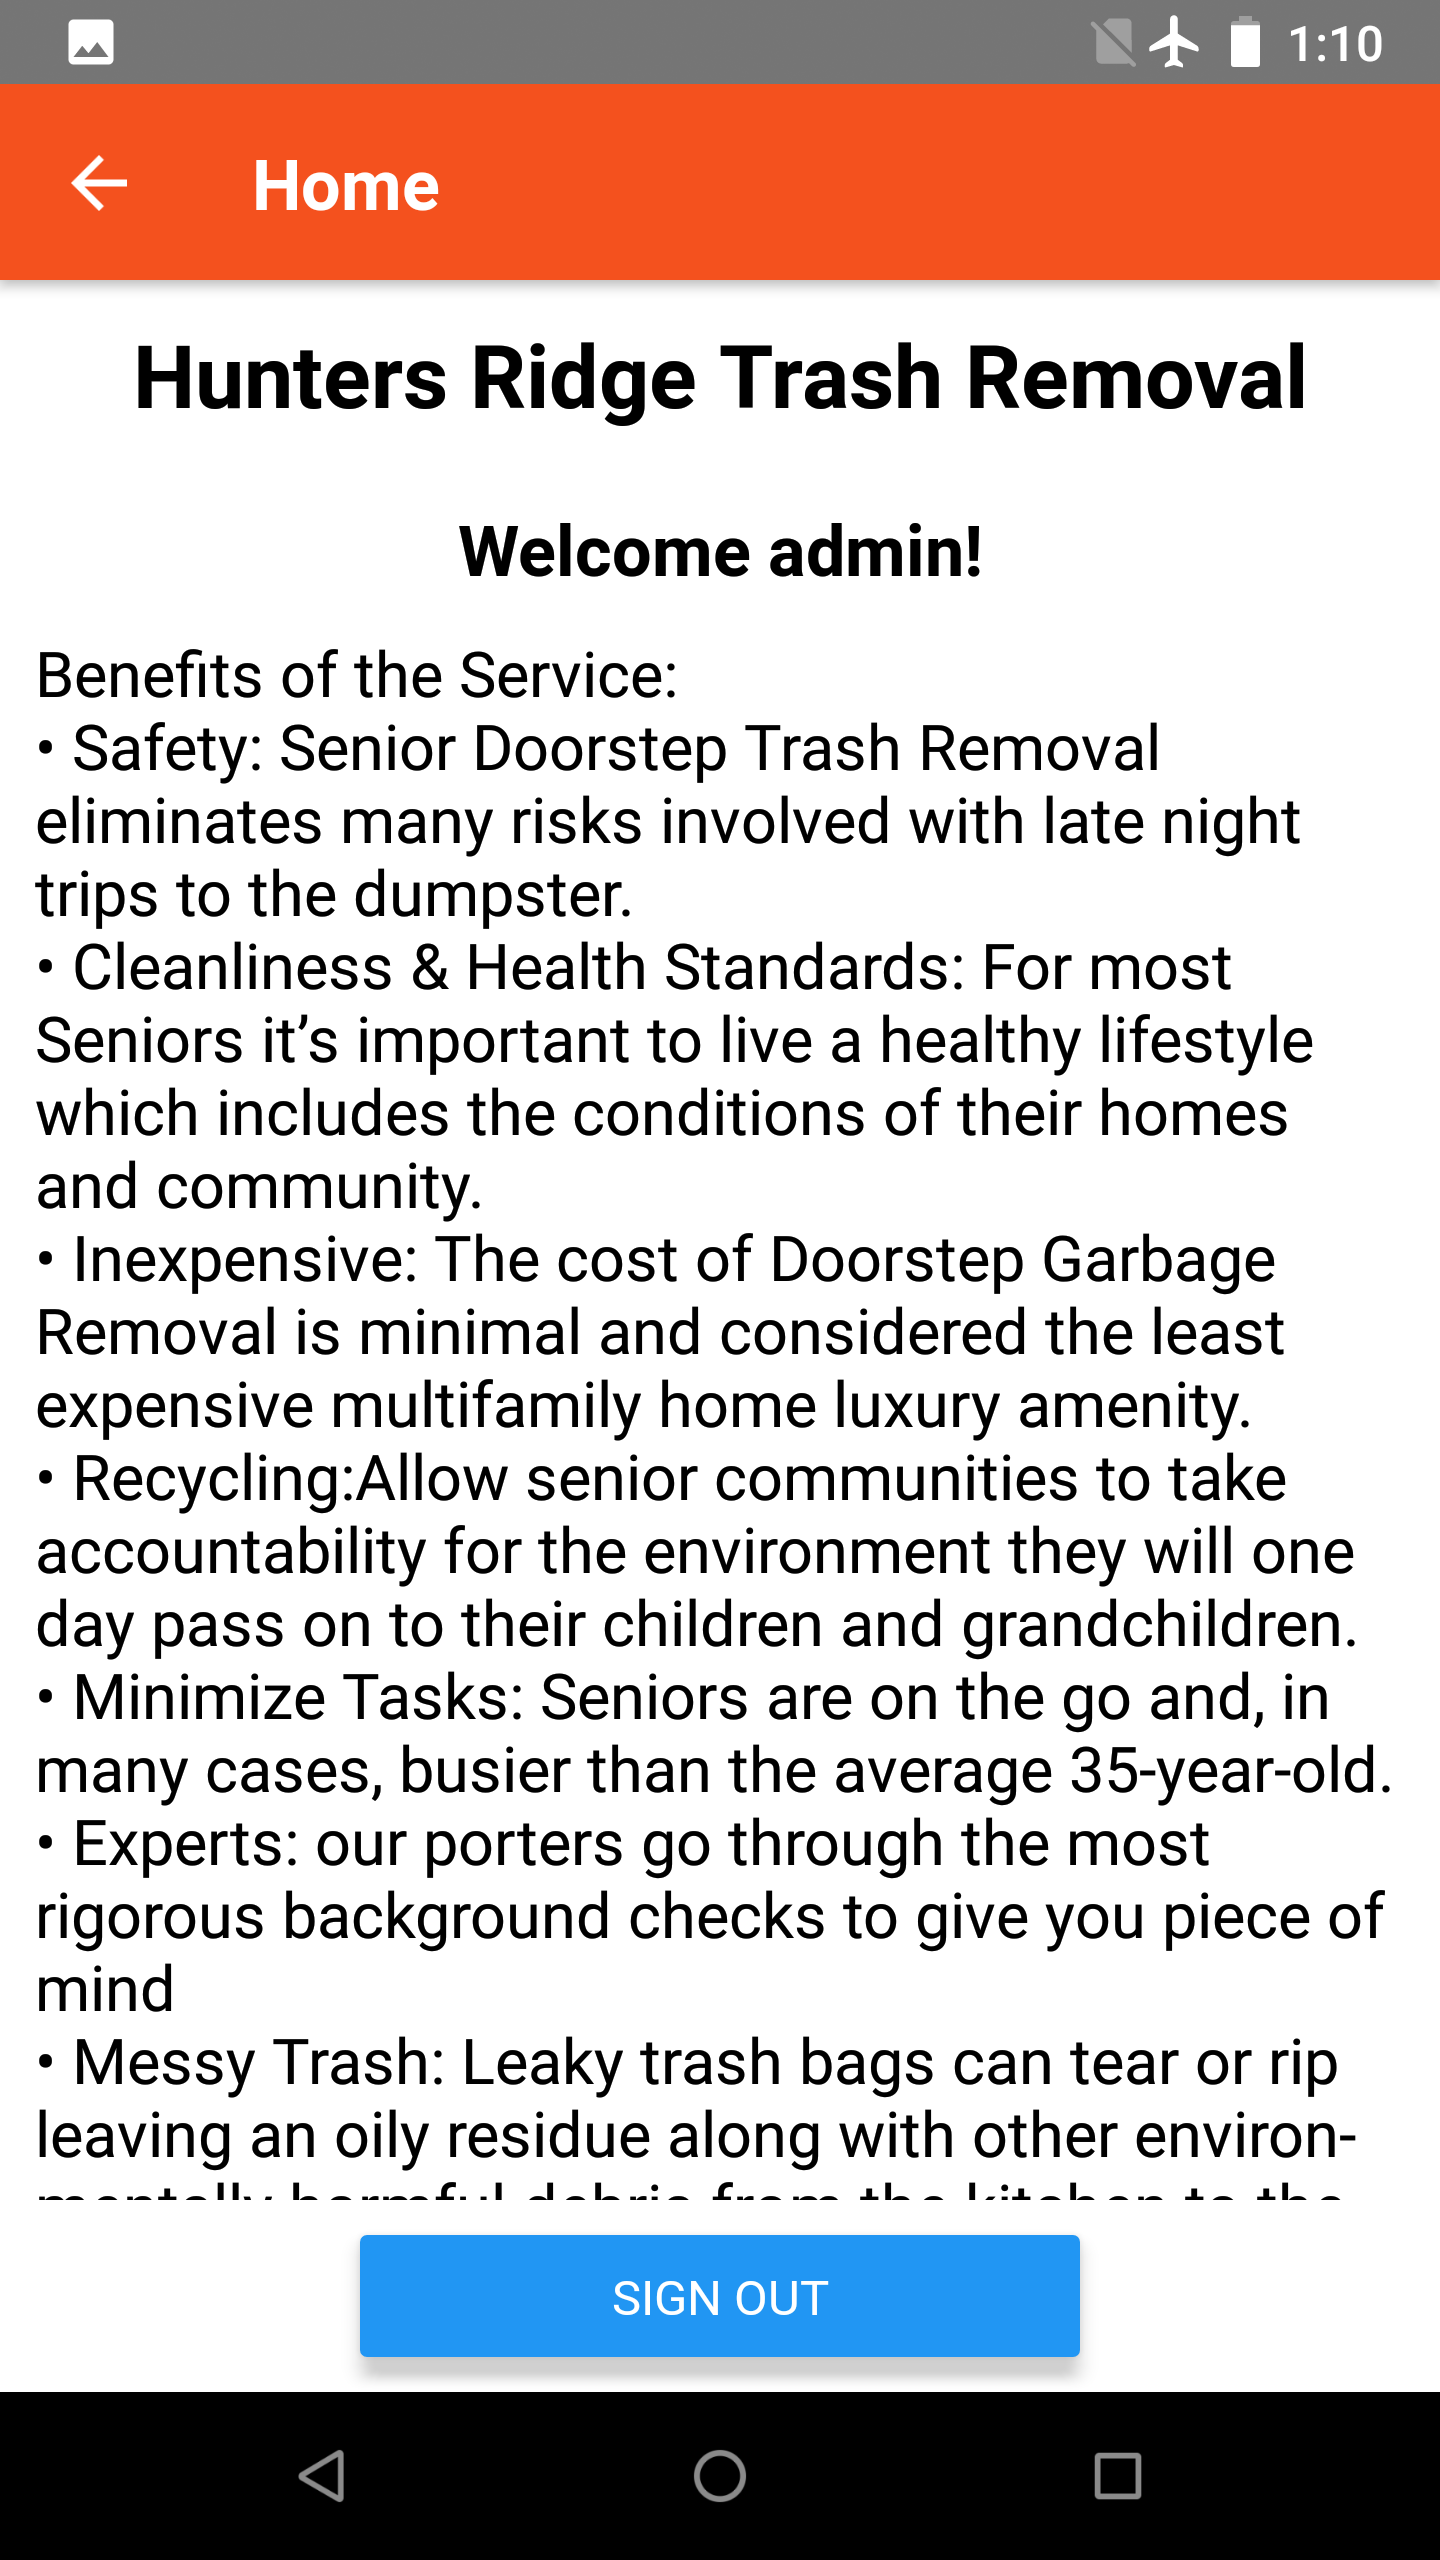
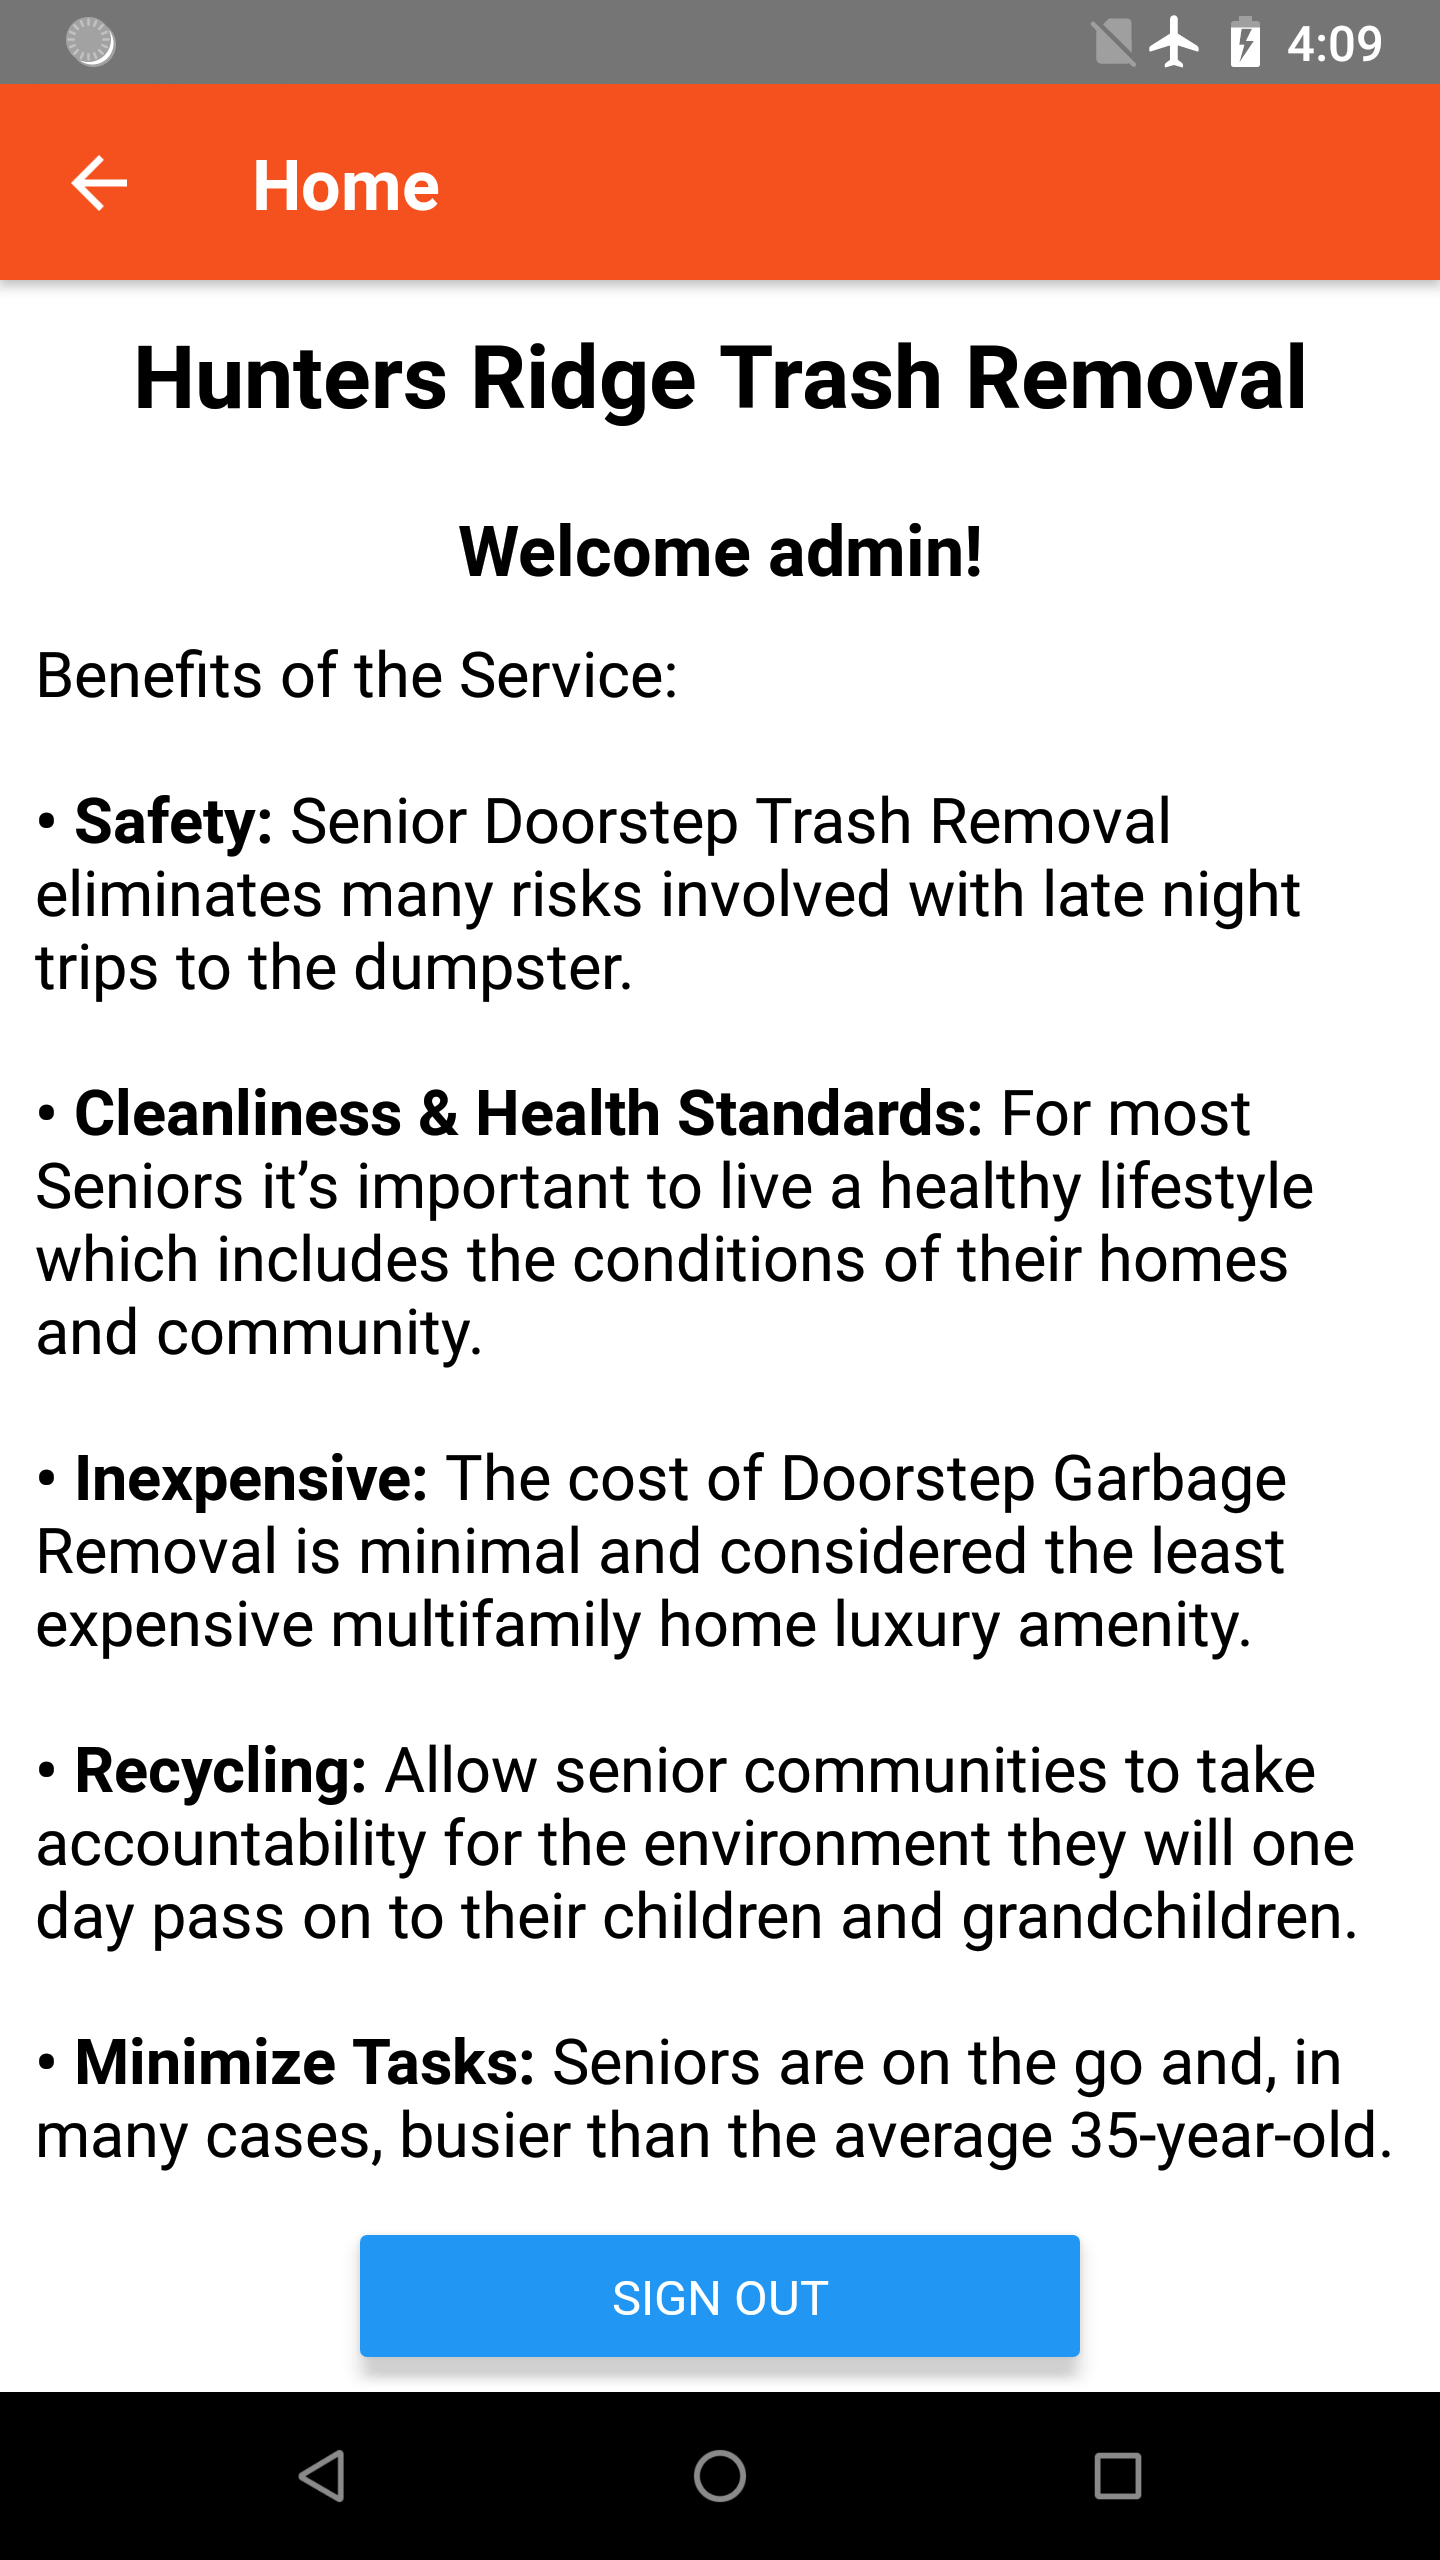
add new field to register form + text formatting in Home screen + new screenshots

Changed region(s): [[0.0312, 0.2812, 0.9688, 0.875], [0.9062, 0.0, 0.9688, 0.0312], [0.0312, 0.0, 0.0938, 0.0312]]

diff --git a/front_end/src/screens/RegistrationScreen.js b/front_end/src/screens/RegistrationScreen.js
@@ -48,12 +48,14 @@ export class RegistrationScreen extends React.Component {
     this.state = {
       email: '',
       password: '',
-      name: '',
+      firstName: '',
+      lastName: '',
       streetAddress: '',
       city: '',
       stateUS: '',
       zipCode: '',
-      phone: '',
+      mobilePhone: '',
+      residentialPhone: '',
       loading: false
     };
   }
@@ -72,17 +74,23 @@ export class RegistrationScreen extends React.Component {
   clearForm = () => {
     this.setState({email: ''});
     this.setState({password: ''});
-    this.setState({name: ''});
+    this.setState({firstName: ''});
+    this.setState({lastName: ''});
     this.setState({streetAddress: ''});
     this.setState({city: ''});
     this.setState({stateUS: ''});
     this.setState({zipCode: ''});
-    this.setState({phone: ''});
+    this.setState({mobilePhone: ''});
+    this.setState({residentialPhone: ''});
     this.setState({loading: false});
   }
 
-  validateName = () => {
-    return (this.state.name !== '');
+  validateFirstName = () => {
+    return (this.state.firstName !== '');
+  }
+
+  validateLastName = () => {
+    return (this.state.lastName !== '');
   }
 
   validateEmail = () => {
@@ -109,14 +117,17 @@ export class RegistrationScreen extends React.Component {
     return (/^\d{5}$/.test(this.state.zipCode));
   }
 
-  validatePhone = () => {
-    return (/^\d{10}$/.test(this.state.phone));
+  validatePhone = (phone) => {
+    return (/^\d{10}$/.test(phone));
   }
 
   registerPressed = () => {
-    if (!this.validateName()) {
-      Alert.alert('Please enter valid Full Name');
-      // this.setState({name: ''});
+    if (!this.validateFirstName()) {
+      Alert.alert('Please enter valid First Name');
+      return;
+    }
+    if (!this.validateLastName()) {
+      Alert.alert('Please enter valid Last Name');
       return;
     }
     if (!this.validateEmail()) {
@@ -150,9 +161,12 @@ export class RegistrationScreen extends React.Component {
       // this.setState({zipCode: ''});
       return;
     }
-    if (!this.validatePhone()) {
-      Alert.alert('Please enter valid Phone Number.', 'Must be 10 digits.');
-      // this.setState({phone: ''});
+    if (!this.validatePhone(this.state.mobilePhone)) {
+      Alert.alert('Please enter valid Mobile Phone Number.', 'Must be 10 digits.');
+      return;
+    }
+    if (!this.validatePhone(this.state.residentialPhone)) {
+      Alert.alert('Please enter valid Residential Phone Number.', 'Must be 10 digits.');
       return;
     }
 
@@ -178,13 +192,24 @@ export class RegistrationScreen extends React.Component {
         <SafeAreaView style={styles.container}>
           <ScrollView style={styles.scrollView} >
             <View style={styles.labelAndTextInputView}>
-              <Text style={styles.label}>Full name: </Text>
+              <Text style={styles.label}>First name: </Text>
               <TextInput
                 style={styles.textInput}
-                placeholder="Full name"
+                placeholder="First name"
                 autoCompleteType="name"
-                onChangeText={(name) => this.setState({name})}
-                value={this.state.name}
+                onChangeText={(firstName) => this.setState({firstName})}
+                value={this.state.firstName}
+              />
+            </View>
+
+            <View style={styles.labelAndTextInputView}>
+              <Text style={styles.label}>Last name: </Text>
+              <TextInput
+                style={styles.textInput}
+                placeholder="Last name"
+                autoCompleteType="name"
+                onChangeText={(lastName) => this.setState({lastName})}
+                value={this.state.lastName}
               />
             </View>
 
@@ -306,14 +331,25 @@ export class RegistrationScreen extends React.Component {
             </View>
 
             <View style={styles.labelAndTextInputView}>
-              <Text style={styles.label}>Phone number: </Text>
+              <Text style={styles.label}>Mobile Phone: </Text>
               <TextInput
                 style={styles.textInput}
                 keyboardType = 'numeric'
-                placeholder="Phone number"
+                placeholder="Mobile Phone"
                 autoCompleteType="tel"
-                onChangeText={(phone) => this.setState({phone})}
-                value={this.state.phone}
+                onChangeText={(mobilePhone) => this.setState({mobilePhone})}
+                value={this.state.mobilePhone}
+              />
+            </View>
+            <View style={styles.labelAndTextInputView}>
+              <Text style={styles.label}>Residential Phone: </Text>
+              <TextInput
+                style={styles.textInput}
+                keyboardType = 'numeric'
+                placeholder="Residential Phone"
+                autoCompleteType="tel"
+                onChangeText={(residentialPhone) => this.setState({residentialPhone})}
+                value={this.state.residentialPhone}
               />
             </View>
           </ScrollView>

diff --git a/front_end/src/screens/HomeScreen.js b/front_end/src/screens/HomeScreen.js
@@ -34,6 +34,8 @@ const styles = StyleSheet.create({
   }
 });
 
+const Bold = (props) => <Text style={{fontWeight: 'bold'}}>{props.children}</Text>
+
 export class HomeScreen extends React.Component {
     static navigationOptions = {
       title: 'Home',
@@ -60,19 +62,19 @@ export class HomeScreen extends React.Component {
             <ScrollView style={styles.scrollView}>
               <Text style={styles.descriptionText}>
                 Benefits of the Service:
-                {"\n"}• Safety: Senior Doorstep Trash Removal eliminates many risks involved with late night trips to the dumpster. 
-                {"\n"}• Cleanliness & Health Standards: For most Seniors it’s important to live a healthy lifestyle which includes the conditions of their homes and community. 
-                {"\n"}• Inexpensive: The cost of Doorstep Garbage Removal is minimal and considered the least expensive multifamily home luxury amenity. 
-                {"\n"}• Recycling:Allow senior communities to take accountability for the environment they will one day pass on to their children and grandchildren. 
-                {"\n"}• Minimize Tasks: Seniors are on the go and, in many cases, busier than the average 35-year-old. 
-                {"\n"}• Experts: our porters go through the most rigorous background checks to give you piece of mind 
-                {"\n"}• Messy Trash: Leaky trash bags can tear or rip leaving an oily residue along with other environmentally harmful debris from the kitchen to the dumpster. Waste Away Doorstep is the answer. 
-                {"\n"}• Trash Pile Up: Don’t let the trash pile up until the absolute last minute. Allow Waste Away to do the heavy lifting for you. 
-                {"\n"}• Recycling:We know you want to be green but sometimes it’s hard. We make recycling easy and at your doorstep. 
-                {"\n"}• Waste is Heavy:Travelling up and down stairs or even walking more than a block to the dumpster can be a risk to your personal health and safety. 
-                {"\n"}• It’s Magic! Put the waste in the bin outside your door before bed and it’s magically gone in the morning 5 days a week. 
-                {"\n"}• Luxury Living: Seniors Expect luxury living and prefer Doorstep Trash Removal to simplify their hectic lives. 
-                {"\n"}• Enjoy Your Retirement: Why spend all that time delivering your own waste to the dumpster when you could be spending more time on your favorite activities? Waste Away Doorstep Will Save The Day!
+                {"\n"}{"\n"}<Bold>• Safety:</Bold> Senior Doorstep Trash Removal eliminates many risks involved with late night trips to the dumpster. 
+                {"\n"}{"\n"}<Bold>• Cleanliness & Health Standards:</Bold> For most Seniors it’s important to live a healthy lifestyle which includes the conditions of their homes and community. 
+                {"\n"}{"\n"}<Bold>• Inexpensive:</Bold> The cost of Doorstep Garbage Removal is minimal and considered the least expensive multifamily home luxury amenity. 
+                {"\n"}{"\n"}<Bold>• Recycling:</Bold> Allow senior communities to take accountability for the environment they will one day pass on to their children and grandchildren. 
+                {"\n"}{"\n"}<Bold>• Minimize Tasks:</Bold> Seniors are on the go and, in many cases, busier than the average 35-year-old. 
+                {"\n"}{"\n"}<Bold>• Experts:</Bold> our porters go through the most rigorous background checks to give you piece of mind 
+                {"\n"}{"\n"}<Bold>• Messy Trash:</Bold> Leaky trash bags can tear or rip leaving an oily residue along with other environmentally harmful debris from the kitchen to the dumpster. Waste Away Doorstep is the answer. 
+                {"\n"}{"\n"}<Bold>• Trash Pile Up:</Bold> Don’t let the trash pile up until the absolute last minute. Allow Waste Away to do the heavy lifting for you. 
+                {"\n"}{"\n"}<Bold>• Recycling:</Bold> We know you want to be green but sometimes it’s hard. We make recycling easy and at your doorstep. 
+                {"\n"}{"\n"}<Bold>• Waste is Heavy:</Bold> Travelling up and down stairs or even walking more than a block to the dumpster can be a risk to your personal health and safety. 
+                {"\n"}{"\n"}<Bold>• It’s Magic!</Bold> Put the waste in the bin outside your door before bed and it’s magically gone in the morning 5 days a week. 
+                {"\n"}{"\n"}<Bold>• Luxury Living:</Bold> Seniors Expect luxury living and prefer Doorstep Trash Removal to simplify their hectic lives. 
+                {"\n"}{"\n"}<Bold>• Enjoy Your Retirement:</Bold> Why spend all that time delivering your own waste to the dumpster when you could be spending more time on your favorite activities? Waste Away Doorstep Will Save The Day!
               </Text>
             </ScrollView>
           </SafeAreaView>

diff --git a/front_end/README.md b/front_end/README.md
@@ -23,8 +23,8 @@ The following screens are implemented so far:
     * Name, email, password, address (street, city, state, zip), phone fields with input validation
     * "Sign Up" button
 
-    <img src="screenshots/registed_screen1.png" height="40%" width="40%">
     <img src="screenshots/registed_screen2.png" height="40%" width="40%">
+    <img src="screenshots/registed_screen3.png" height="40%" width="40%">
 
 3. Home screen
 
@@ -56,9 +56,7 @@ If you have a physical Android device, plug it in with USB cable and enable "USB
 Alternatively, you can run on an Android emulator. Create an Android virtual device by opening the "AVD Manager" from within Android Studio. Select the Pie API Level 28 image.
 
 Run the following command from the project folder:
-
 ```react-native run-android```
-
 If everything is set up correctly, you should see the app running on your physical or virtual device.
 
 For iOS development see [here](https://facebook.github.io/react-native/docs/running-on-device), select "development OS" macOS and "target OS" iOS.
